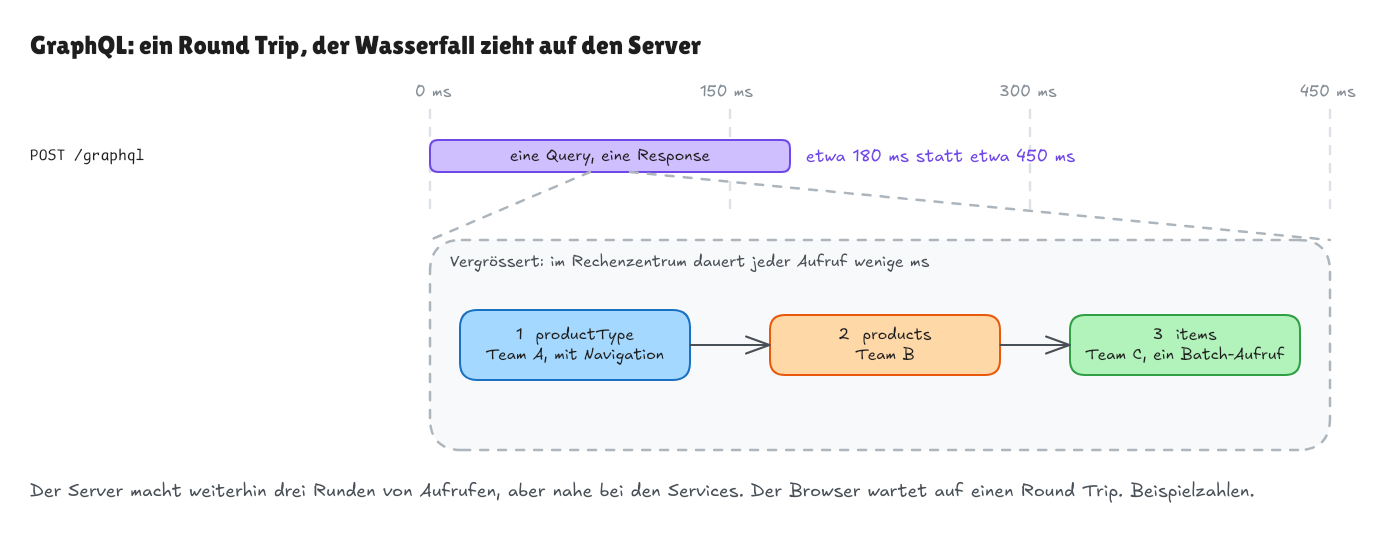
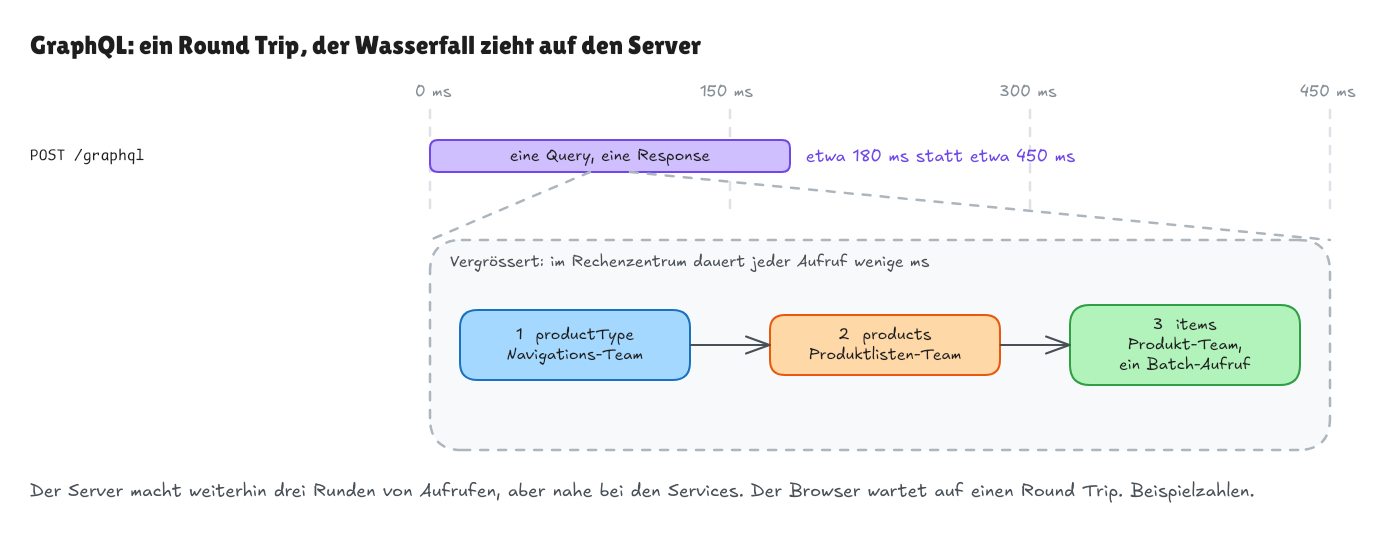
Name the teams after their domains instead of A, B and C
The navigation, product list and product teams replace Team A, B and C
in the text, the resolver code (context.navigation, context.productLists,
context.products) and all six graphics.

Changed region(s): [[0.7767, 0.5704, 0.9632, 0.7505], [0.3418, 0.6604, 0.466, 0.6904], [0.5903, 0.6604, 0.6835, 0.6904]]

diff --git a/topics/graphql-vs-rest/README.md b/topics/graphql-vs-rest/README.md
@@ -43,19 +43,19 @@ Unser Beispiel ist eine echte Seite: [Audio-Steckverbinder auf galaxus.ch](https
 
 Drei Teams teilen sich die Seite:
 
-- **Team A (Navigation)** gehört die Seite selbst mit Titel, Breadcrumb und Sidebar.
-- **Team B (Produktlisten)** gehört die Liste: welche Produkte zu den Filtern passen, wie viele es sind und in welcher Reihenfolge.
-- **Team C (Produkte)** gehören die Kacheln: Name, Marke, Preis, Bilder und Bewertungen eines Produkts.
+- Dem **Navigations-Team** gehört die Seite selbst mit Titel, Breadcrumb und Sidebar.
+- Dem **Produktlisten-Team** gehört die Liste: welche Produkte zu den Filtern passen, wie viele es sind und in welcher Reihenfolge.
+- Dem **Produkt-Team** gehören die Kacheln: Name, Marke, Preis, Bilder und Bewertungen eines Produkts.
 
-![Die Produkttyp-Seite von Team A, darin die Liste von Team B und darin die Kacheln von Team C](./assets/page-teams.png)
+![Die Produkttyp-Seite des Navigations-Teams, darin die Liste des Produktlisten-Teams und darin die Kacheln des Produkt-Teams](./assets/page-teams.png)
 
-Jedes Team betreibt einen eigenen Service mit eigener REST API. **Die Verschachtelung ist auch die Ladereihenfolge:** Die Seite braucht die Produktliste von Team B, und die Liste braucht die Produkte von Team C.
+Jedes Team betreibt einen eigenen Service mit eigener REST API. **Die Verschachtelung ist auch die Ladereihenfolge:** Die Seite braucht die Produktliste, und die Liste braucht die Produkte.
 
 ## Das Problem: die Seite mit REST laden
 
-### Runde 1: der Produkttyp von Team A
+### Runde 1: der Produkttyp vom Navigations-Team
 
-Die Produkttyp-ID `3137` steht in der URL. Team A liefert Titel, Breadcrumb und Sidebar:
+Die Produkttyp-ID `3137` steht in der URL. Das Navigations-Team liefert Titel, Breadcrumb und Sidebar:
 
 ```jsonc
 // GET /api/product-types/3137
@@ -76,7 +76,7 @@ Die Produkttyp-ID `3137` steht in der URL. Team A liefert Titel, Breadcrumb und 
 }
 ```
 
-### Runde 2: die Produktliste von Team B
+### Runde 2: die Produktliste vom Produktlisten-Team
 
 Die Produktliste ist nur verlinkt, der Browser muss also **auf Runde 1 warten**:
 
@@ -94,9 +94,9 @@ Die Produktliste ist nur verlinkt, der Browser muss also **auf Runde 1 warten**:
 }
 ```
 
-### Runde 3: die Produkte von Team C
+### Runde 3: die Produkte vom Produkt-Team
 
-Der Browser fragt Team C **für jedes der 48 Produkte** einzeln an:
+Der Browser fragt das Produkt-Team **für jedes der 48 Produkte** einzeln an:
 
 ```jsonc
 // GET /api/products/5862971
@@ -123,15 +123,13 @@ Drei Probleme, und die ersten beiden treten gleichzeitig auf:
 
 - **Under-Fetching.** Einer Response fehlen Daten, die die Seite braucht. Die Produktliste enthält nur Links, jede Kachel braucht einen eigenen Request.
 - **Over-Fetching.** Eine Response enthält Daten, die die Seite nicht braucht. Jedes Produkt kommt mit Beschreibung und 60 Spezifikationen, obwohl die Kachel fünf Felder zeigt.
-- **Wasserfall.** Jede Runde wartet auf die vorherige. `Promise.all` hilft nur innerhalb einer Runde. HTTP/2 und HTTP/3 ändern daran nichts: Eine Runde, die auf die Daten der vorherigen wartet, wartet trotzdem.
+- **Wasserfall.** Jede Runde wartet auf die vorherige.
 
 Jede Runde kostet mindestens einen Round Trip. Auf 4G dauert er typischerweise unter 100 ms, auf 3G 100 bis 500 ms ([High Performance Browser Networking](https://hpbn.co/mobile-networks/)). Die Zahlen in den Grafiken sind Beispielwerte.
 
 ## Die Lösung: GraphQL
 
 ### GraphQL in drei Snippets
-
-Drei Snippets von graphql.org, leicht angepasst.
 
 **Das Schema** beschreibt jeden Typ und jedes Feld, das die API anbietet, wie ein TypeScript-Interface für die ganze API. `type Query` listet die Einstiegspunkte zum Lesen, wie deine `GET`-Routen.
 
@@ -218,7 +216,7 @@ type Product {
 # Category, NavigationEntry, Brand, Money and Rating are left out
 ```
 
-**Das Schema versteckt die Services.** `ProductType.products` sieht aus wie ein gewöhnliches Feld, obwohl der Service von Team B es beantwortet.
+**Das Schema versteckt die Services.** `ProductType.products` sieht aus wie ein gewöhnliches Feld, obwohl der Service des Produktlisten-Teams es beantwortet.
 
 Die Seite schickt **eine Query mit allem, was sie anzeigt**. `$id` ist eine **Variable**: Ihr Wert reist als JSON neben der Query mit, wie ein Routenparameter.
 
@@ -289,20 +287,20 @@ Jeder Resolver bekommt den Rückgabewert des übergeordneten Felds (`parent`), d
 ```ts
 const resolvers = {
   Query: {
-    // 👇 Team A: one call returns name, breadcrumb and navigation as well
-    productType: (_parent, args, context) => context.teamA.getProductType(args.id)
+    // 👇 navigation service: one call returns name, breadcrumb and navigation as well
+    productType: (_parent, args, context) => context.navigation.getProductType(args.id)
   },
   ProductType: {
     products: (productType, args, context) =>
-      context.teamB.getProductList({
+      context.productLists.getProductList({
         productTypeId: productType.id,
         limit: args.first
       })
   },
   ProductList: {
-    // 👇 Team B returns ids only, so fetch all 48 products from Team C in one call
+    // 👇 the list service returns ids only, so fetch all 48 products in one call
     items: (list, _args, context) =>
-      context.teamC.getProducts(list.items.map((item) => item.productId))
+      context.products.getProducts(list.items.map((item) => item.productId))
   },
   Product: {
     // a resolver that calls nothing: the schema offers one image, the service returns a list
@@ -317,7 +315,7 @@ Der Server führt die Resolver Ebene für Ebene aus: `products` wartet auf `prod
 
 ![GraphQL: ein Round Trip für den Browser, drei kurze Schritte auf dem Server](./assets/graphql-waterfall.png)
 
-Auch das Over-Fetching ist umgezogen: Team C liefert weiterhin das ganze Produkt, aber an den GraphQL-Server im selben Rechenzentrum. **Zum Smartphone reisen nur die angefragten Felder.**
+Auch das Over-Fetching ist umgezogen: Der Produkt-Service liefert weiterhin das ganze Produkt, aber an den GraphQL-Server im selben Rechenzentrum. **Zum Smartphone reisen nur die angefragten Felder.**
 
 Doku: [graphql.org: Execution](https://graphql.org/learn/execution/), [Apollo Server: Resolver](https://www.apollographql.com/docs/apollo-server/data/resolvers)
 
@@ -330,10 +328,10 @@ Unser `items`-Resolver holt alle 48 Produkte in einem Aufruf, weil er die ganze 
 
 ```ts
 // one loader per request, so cached brands never leak between requests
-export function createBrandLoader(teamC: TeamCApi) {
+export function createBrandLoader(products: ProductsApi) {
   return new DataLoader<number, Brand>(async (ids) => {
     // 👇 one call for all ids
-    const brands = new Map((await teamC.getBrands(ids)).map((brand) => [brand.id, brand]));
+    const brands = new Map((await products.getBrands(ids)).map((brand) => [brand.id, brand]));
     return ids.map((id) => brands.get(id) ?? new Error(`No brand ${id}`));
   });
 }
@@ -351,7 +349,7 @@ Doku: [graphql.org: Performance](https://graphql.org/learn/performance/), [DataL
 
 ### Wenn ein Service ausfällt
 
-**Fällt ein Service aus, kommt der Rest trotzdem an**, solange das betroffene Feld `null` sein darf. Bei einem Feld mit `!` wird stattdessen das nächste nullable Feld darüber `null`. Deshalb hat `items` im Schema kein `!`. Fällt Team C aus, ist `items` `null`, und `errors` sagt, wo:
+**Fällt ein Service aus, kommt der Rest trotzdem an**, solange das betroffene Feld `null` sein darf. Bei einem Feld mit `!` wird stattdessen das nächste nullable Feld darüber `null`. Deshalb hat `items` im Schema kein `!`. Fällt der Produkt-Service aus, ist `items` `null`, und `errors` sagt, wo:
 
 ```json
 {
@@ -460,7 +458,7 @@ export function ProductList(props: ProductListProps) {
 }
 ```
 
-`ProductTypePage`, die Seitenkomponente von Team A, setzt nur die Fragments der direkt untergeordneten Komponenten zusammen:
+`ProductTypePage`, die Seitenkomponente des Navigations-Teams, setzt nur die Fragments der direkt untergeordneten Komponenten zusammen:
 
 ```graphql
 query ProductTypePage($id: ID!) {
@@ -474,7 +472,7 @@ query ProductTypePage($id: ID!) {
 
 An jeder Stelle `...Name` setzt GraphQL die Felder des Fragments ein. Beim Server kommen also dieselben Felder an wie in der Query weiter oben (plus `id`), und **die Seite schickt weiterhin einen Request**.
 
-Fügt Team C der Kachel ein Feld hinzu, das es im Schema schon gibt, ändert das Team nur `ProductTile` und dessen Fragment. **Die Query der Seite bleibt, wie sie ist.**
+Fügt das Produkt-Team der Kachel ein Feld hinzu, das es im Schema schon gibt, ändert das Team nur `ProductTile` und dessen Fragment. **Die Query der Seite bleibt, wie sie ist.**
 
 ### Data Masking
 
@@ -523,7 +521,7 @@ GET /api/product-lists?productTypeId=3137&include=products
 JSON:API nennt das **Inclusion of Related Resources**, Stripe **Expanding** einer Response (`expand[]=...`). Das löst das Problem nur teilweise:
 
 - **Over-Fetching bleibt meist.** Ohne Sparse Fieldsets kommt jedes eingebettete Produkt mit Beschreibung und 60 Spezifikationen. JSON:API kennt dafür `fields[...]`, aber auch das muss jeder Endpoint selbst umsetzen.
-- **Die Daten müssen dort erreichbar sein.** Der Service von Team B kann Produkte nur einbetten, wenn er an die Daten von Team C herankommt. Kann er das nicht, funktioniert das Muster gar nicht.
+- **Die Daten müssen dort erreichbar sein.** Der Produktlisten-Service kann Produkte nur einbetten, wenn er an die Daten des Produkt-Services herankommt. Kann er das nicht, funktioniert das Muster gar nicht.
 - **Jeder Endpoint implementiert es neu**, auch für tiefere Daten wie `include=products.brand`.
 
 Aus der Praxis: Bei den Kommentaren eines Blogposts haben wir die Antworten auf jeden Kommentar per `include` mitgeladen, also eine verschachtelte Pagination in einem Request. Die Benutzerdaten zu den Kommentaren kamen aber nicht mit, dafür brauchte es einen weiteren Request pro Kommentar. Der Gewinn war bescheiden.
